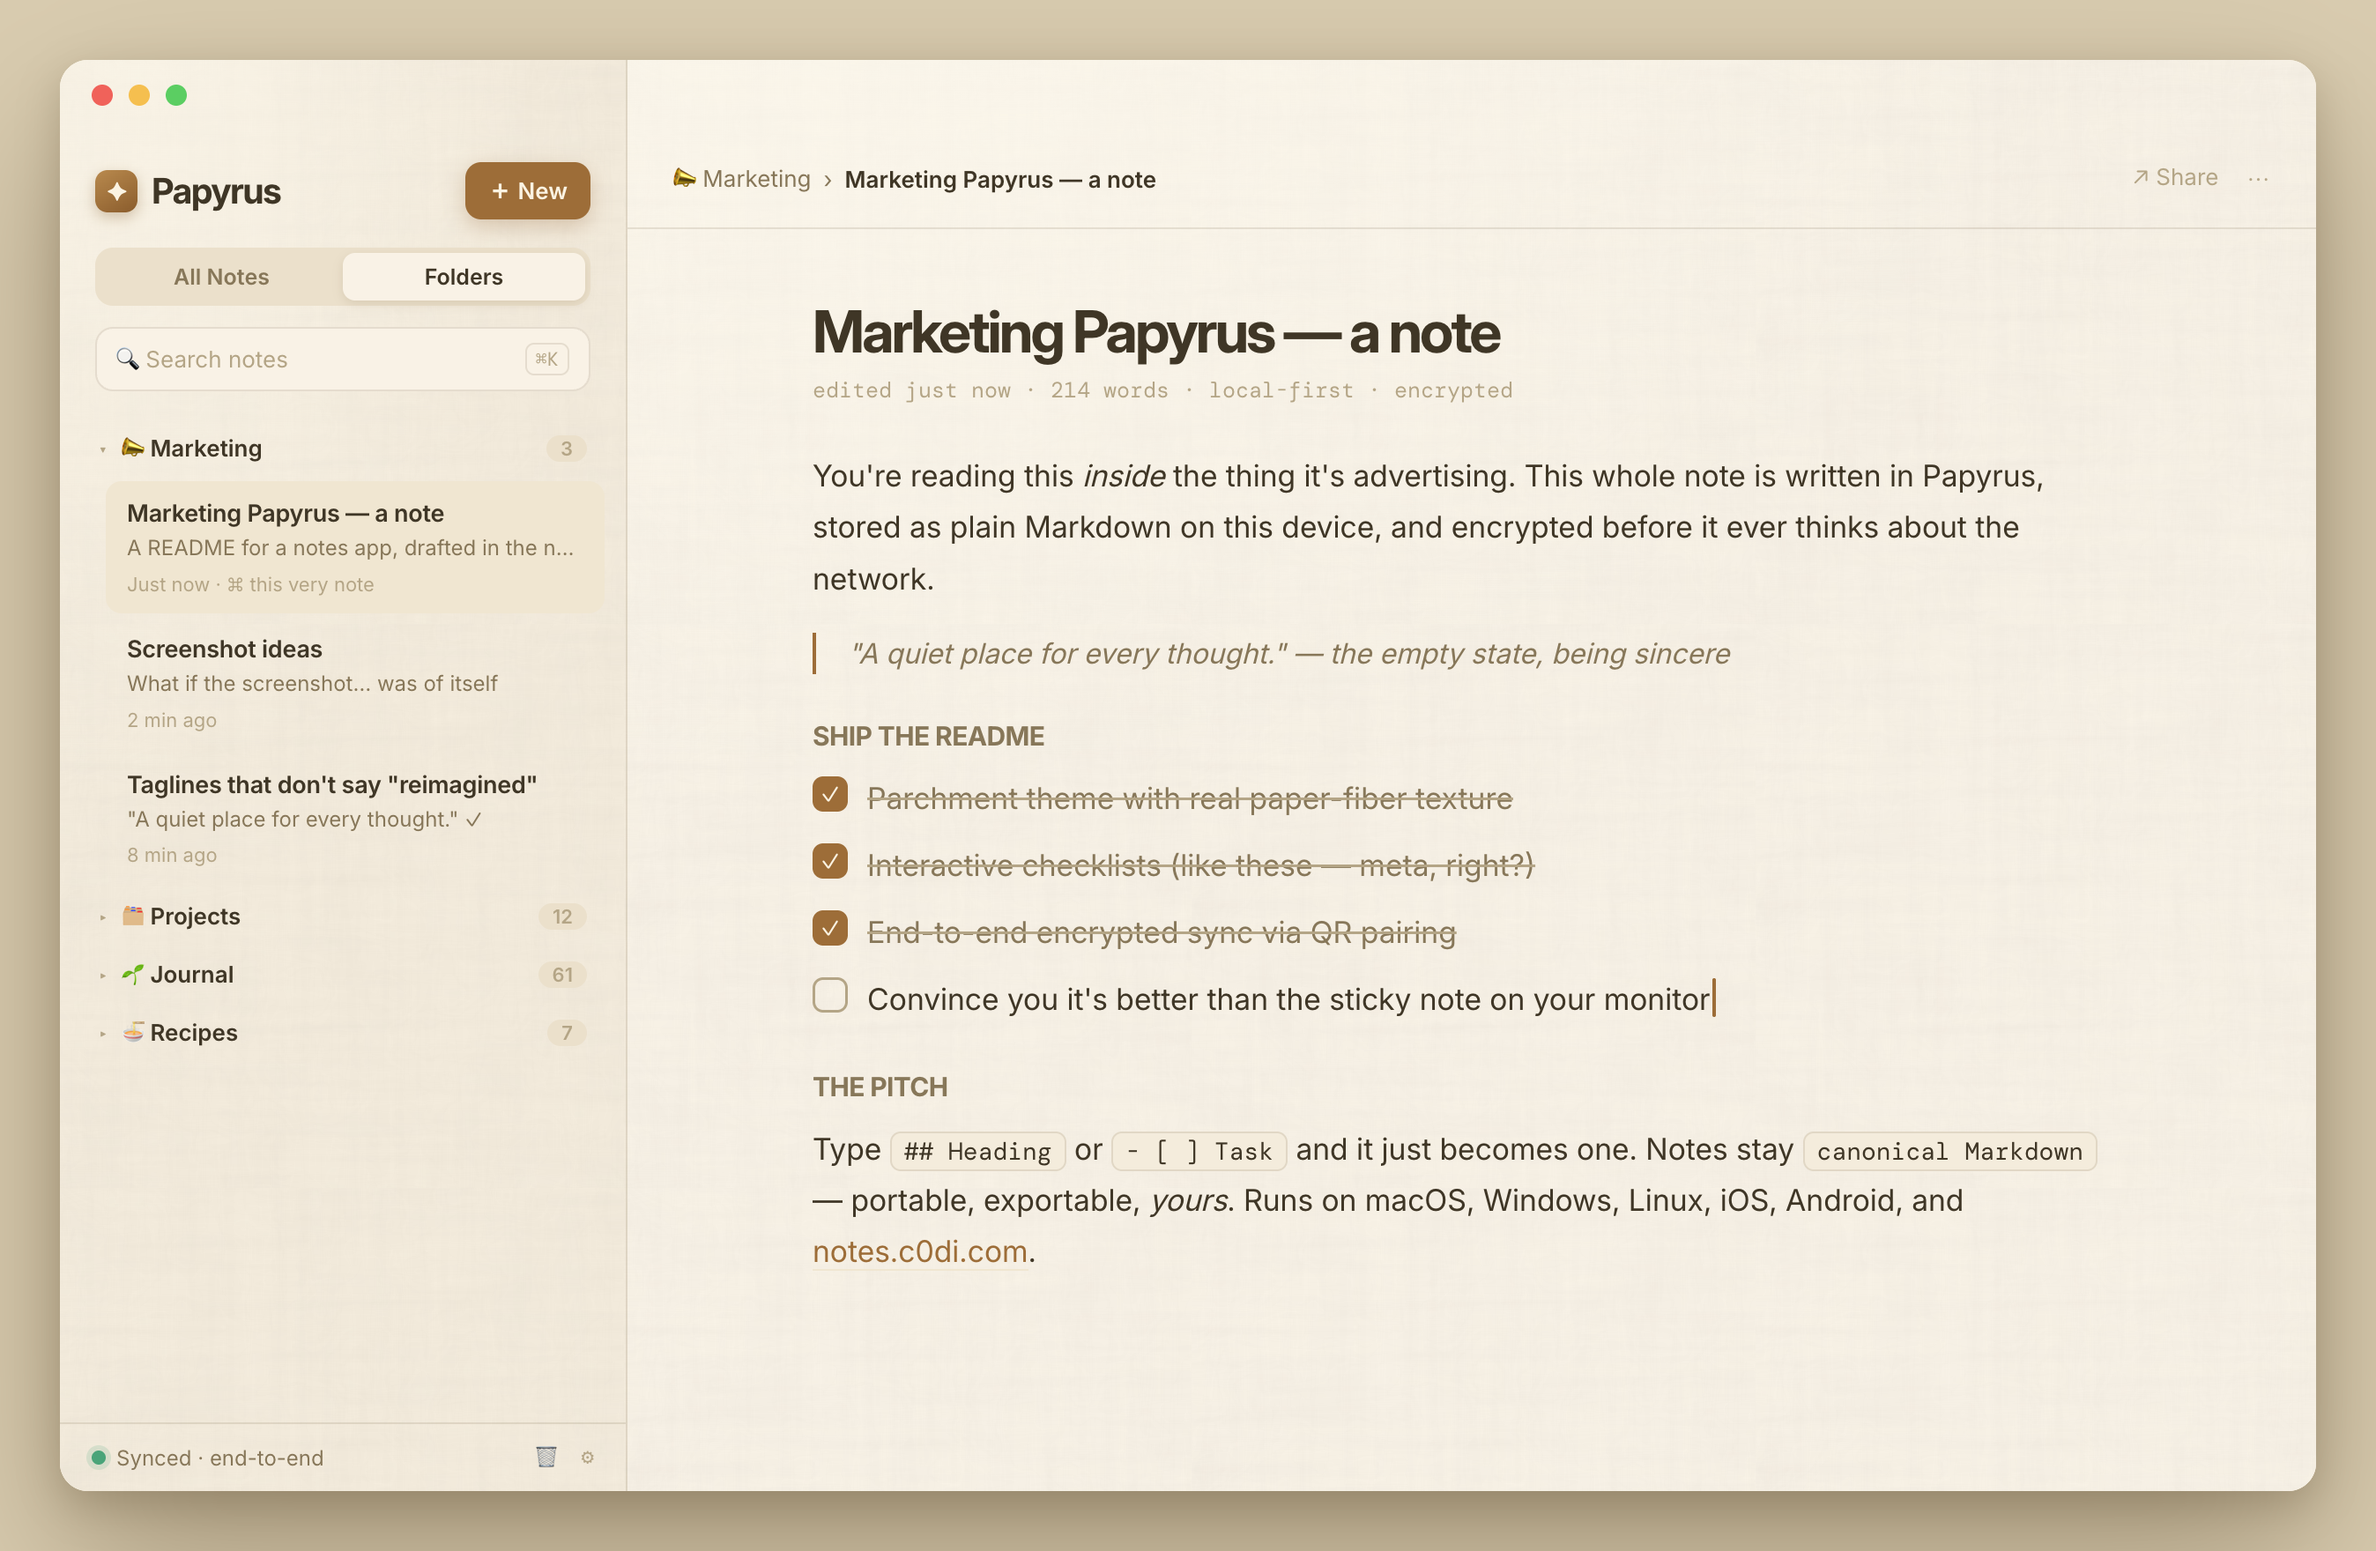
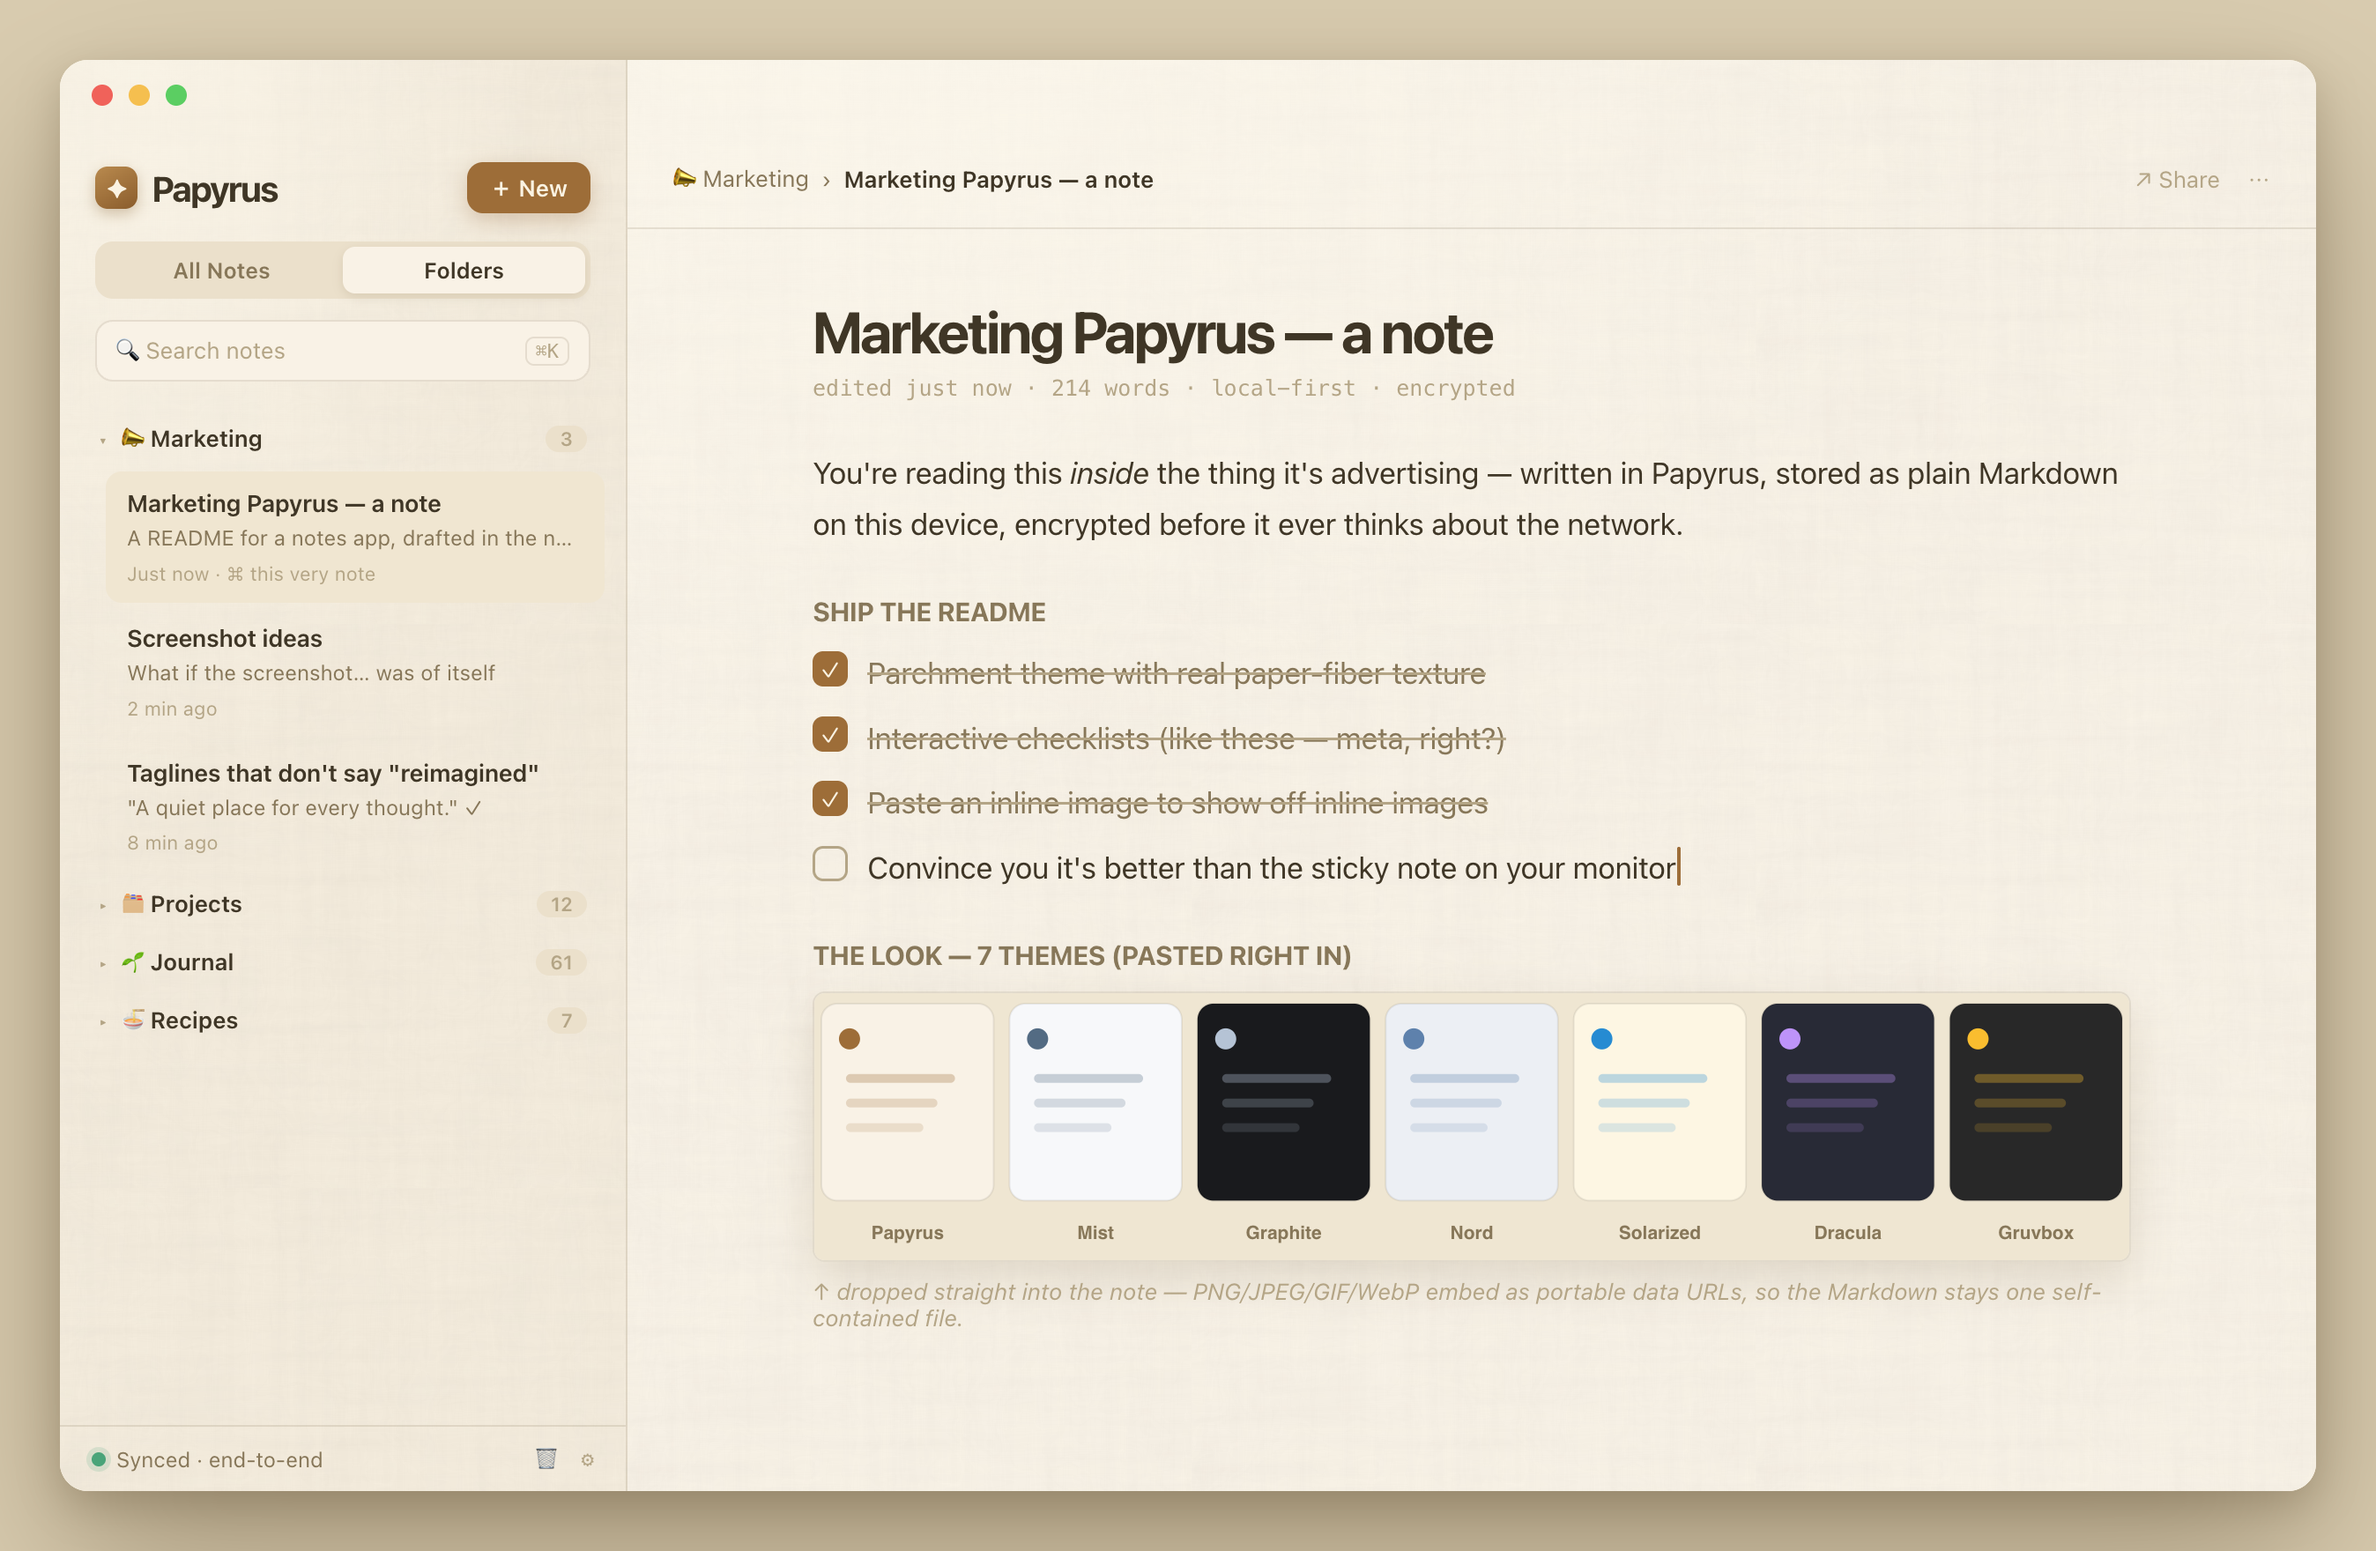
Update README to acknowledge theme swatch image being pasted into a note

diff --git a/README.md b/README.md
@@ -15,7 +15,7 @@ Runs everywhere. Syncs end-to-end encrypted. Never waits on the network.
 
 ![Papyrus — the app, showing a note about marketing the app](docs/screenshot.png)
 
-<sub>Yes, that screenshot is a note in Papyrus, about marketing Papyrus, written in Papyrus. We're aware. It's fine.</sub>
+<sub>Yes, that screenshot is a note in Papyrus, about marketing Papyrus, written in Papyrus — and the theme swatches are an image pasted *into* that note. We're aware. It's fine.</sub>
 
 </div>
 
